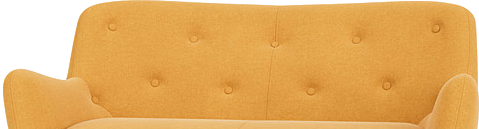
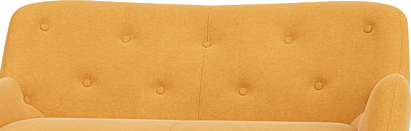
Sofa in 4 Teilen

diff --git a/Spielaufbau.js b/Spielaufbau.js
@@ -19,8 +19,11 @@ var ZusammengesetzteMöbelvorlagen = {
         [ "Stuhllehne", 0, 87, -2, 75, 74 ]
     ],
     Sofa: [
-        [ "Sofalehne", 0, 178, 0, 479, 129 ],
-        [ "Sofasitz", 0, 0, 2, 479, 178 ]
+        // [ name,              links,  unten,  z,  breite, höhe ]
+        [ "Sofalehne",          68,     176,    0,  411,    131 ],
+        [ "Sofasitz",           68,     0,      2,  356,    176 ],
+        [ "SofaArmlehneLinks",  0,      0,      2,  68,     240 ],
+        [ "SofaArmlehneRechts", 424,    0,      2,  55,     237 ]
     ]
 };
 
